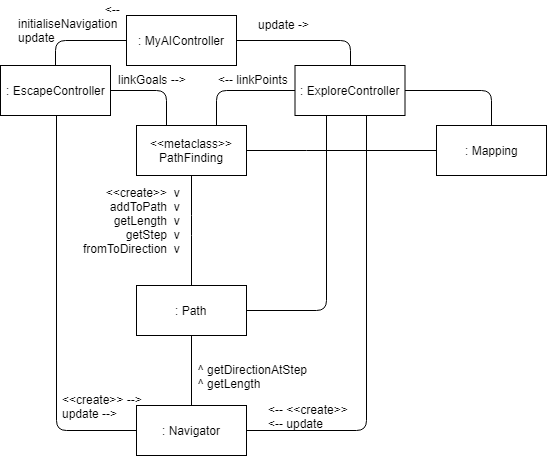
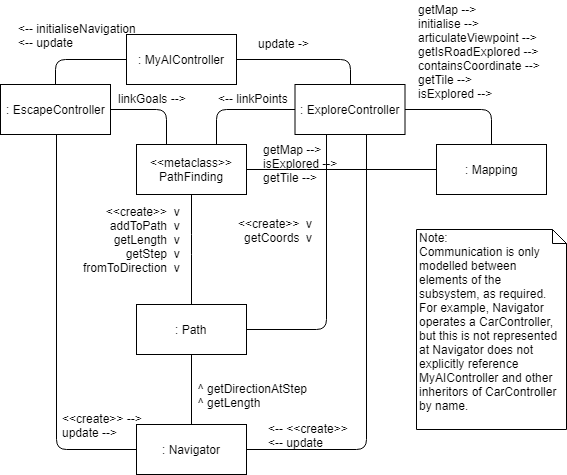
changes to Design Communication Diagram
also made changes that simplify the diagram

diff --git a/src/mycontroller/ExploreController.java b/src/mycontroller/ExploreController.java
@@ -151,7 +151,7 @@ public class ExploreController extends CarController {
 		if (keyPath != null) {
 			System.out.println("Go to key!");
 			navigator = new Navigator(this, new Path(keyPath));
-			path.addAll(keyPath.path);
+			path.addAll(keyPath.getCoords());
 			removeDuplicatePath();
 			navigator.update();
 			return true;
@@ -170,7 +170,7 @@ public class ExploreController extends CarController {
 		if (helpPath != null) {
 			System.out.println("Found an unvisted point!");
 			navigator = new Navigator(this, new Path(helpPath));
-			path.addAll(helpPath.path);
+			path.addAll(helpPath.getCoords());
 			removeDuplicatePath();
 			navigator.update();
 		} else {

diff --git a/src/mycontroller/navigation/Pathfinding.java b/src/mycontroller/navigation/Pathfinding.java
@@ -253,9 +253,8 @@ public class Pathfinding {
 			return false;
 		}
 
-		HashMap<Coordinate, MapTile> map = Mapping.getMap().getMapTiles();
-		MapTile startTile = map.get(start);
-		MapTile destinationTile = map.get(destination);
+		MapTile startTile = Mapping.getMap().getTile(start);
+		MapTile destinationTile = Mapping.getMap().getTile(destination);
 		
 		// check against tile types
 		// start tile

diff --git a/src/mycontroller/navigation/Path.java b/src/mycontroller/navigation/Path.java
@@ -10,7 +10,7 @@ import world.WorldSpatial.Direction;
  */
 public class Path {
 	
-	public ArrayList<Coordinate> path;
+	private ArrayList<Coordinate> path;
 	
 	// starting with empty path
 	public Path() {
